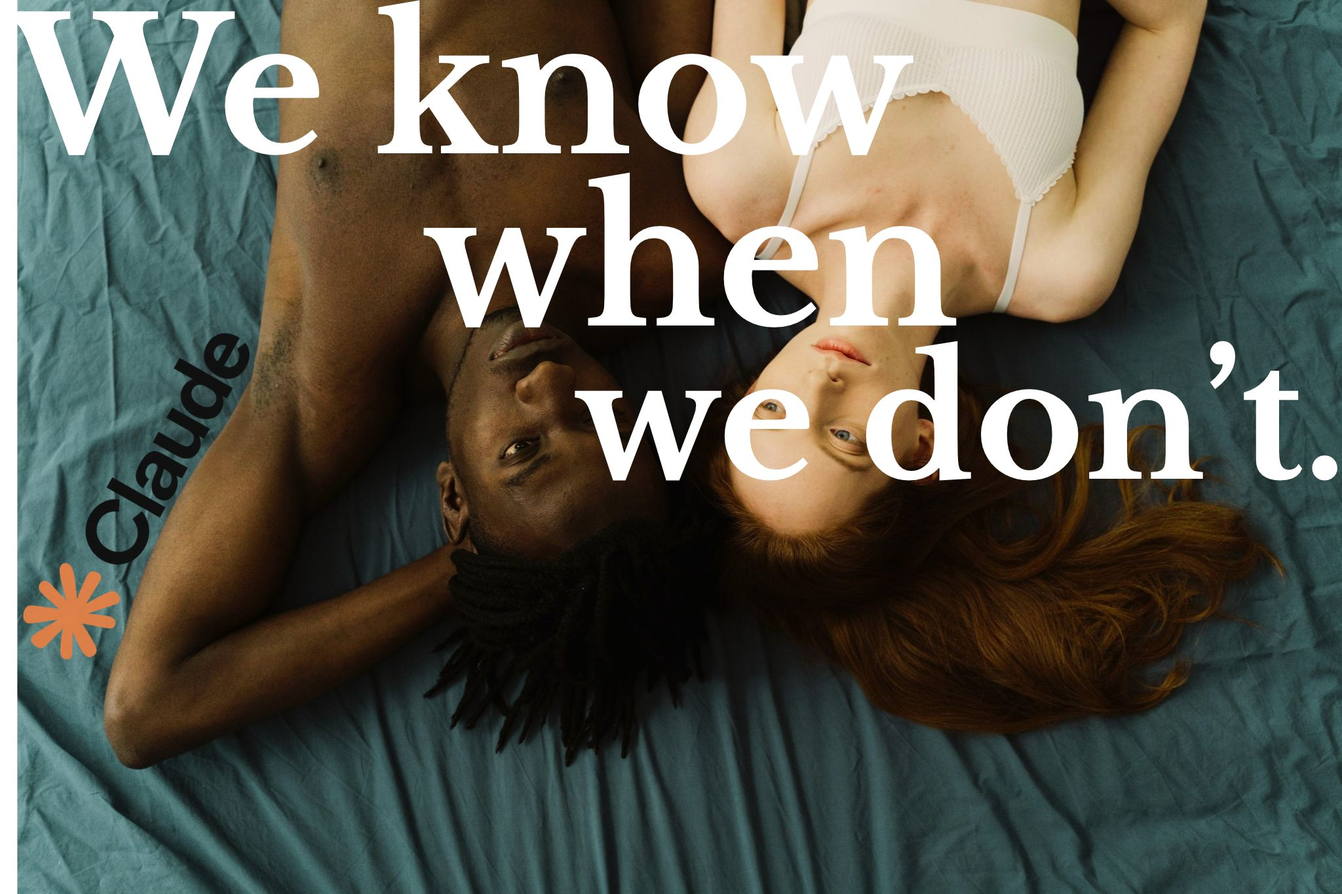
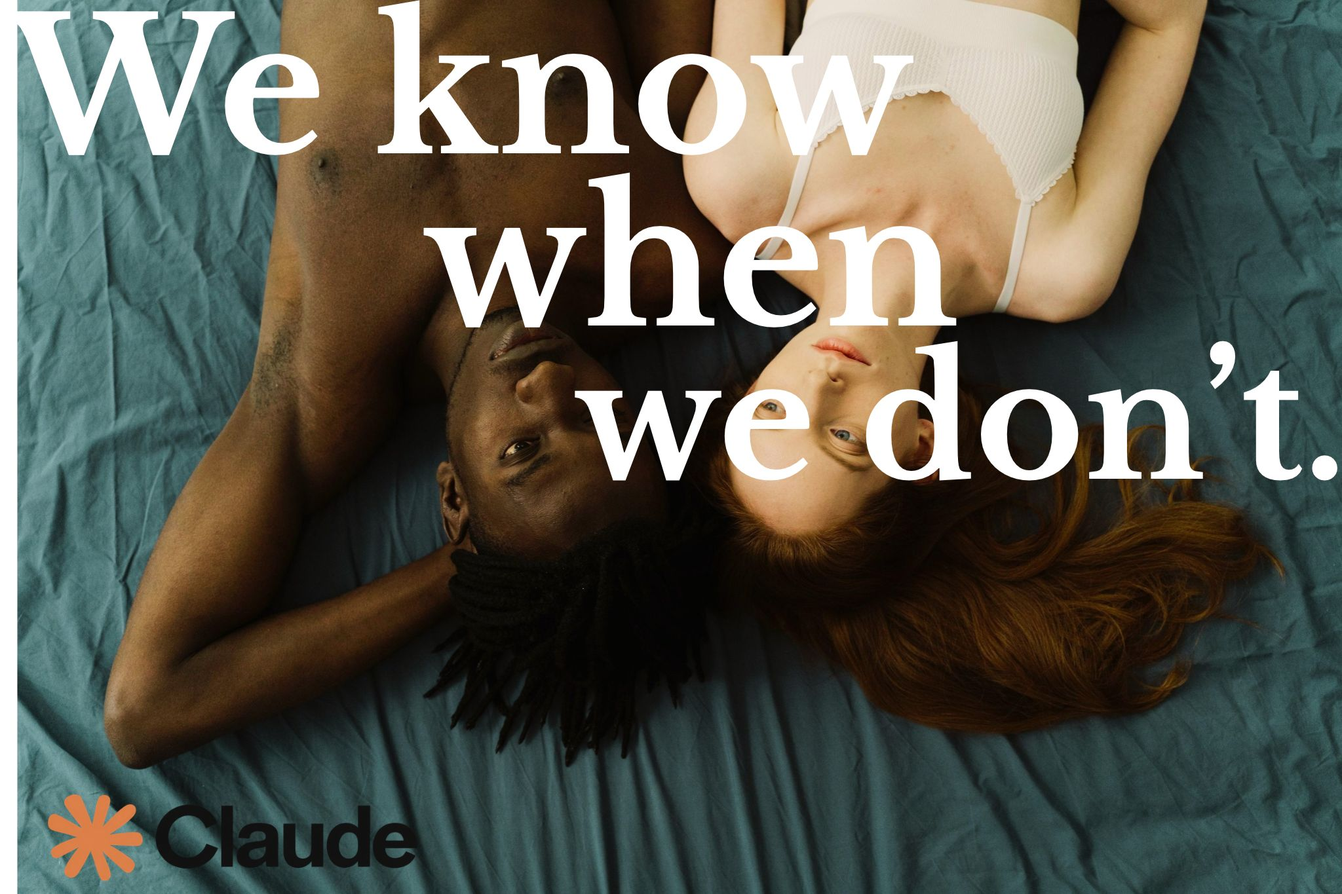
Add files via upload

Changed region(s): [[0.0, 0.3692, 0.1875, 0.7385], [0.0312, 0.8923, 0.3125, 0.9846]]

diff --git a/index.html b/index.html
@@ -12,10 +12,7 @@
 <link rel="prefetch" href="mozart-40-excerpt.mp3">
 <link rel="prefetch" href="ring-of-fire-excerpt.mp3">
 <title>Aditya Verma</title>
-<script>
-(function(){var s=null;try{s=localStorage.getItem("theme")}catch(e){}
-document.documentElement.setAttribute("data-theme",s||(window.matchMedia&&matchMedia("(prefers-color-scheme: dark)").matches?"dark":"light"))})();
-</script>
+
 <style>
 :root{--bg:#fff;--fg:#000;--mute:rgba(0,0,0,.58);--line:rgba(0,0,0,.14);color-scheme:light;box-sizing:border-box;padding-top:env(safe-area-inset-top,0px);padding-bottom:env(safe-area-inset-bottom,0px)}
 :root[data-theme=dark]{--bg:#000;--fg:#fff;--mute:rgba(255,255,255,.62);--line:rgba(255,255,255,.2);color-scheme:dark}
@@ -154,14 +151,65 @@ p.nt{margin:32px 0 10px;font-weight:600}
 @media(max-width:1000px){#top a{padding:11px 12px}}
 @media(max-width:860px){.oc{grid-template-columns:minmax(0,1fr);row-gap:26px;margin-bottom:84px}.oc .of,.oc:nth-child(even) .of{order:-1;position:static}}
 @media(max-width:560px){#top a{padding:8px 4px;font-size:14px}}
+
+html,body{background:#fff;color:#000}
+:root{--cr:#b0102f;--pu:#4c1d95;--nb:#0b1f4d;--mono:ui-monospace,"SF Mono",Menlo,Consolas,monospace;--serif:Georgia,"Times New Roman",serif}
+body{font-family:-apple-system,"SF Pro Display","Helvetica Neue",Helvetica,Arial,sans-serif}
+#app{display:grid;grid-template-columns:300px minmax(0,1fr);grid-template-rows:auto 1fr;min-height:100vh}
+#app.ns{grid-template-columns:minmax(0,1fr)}#app.ns #sb{display:none}
+#hd{grid-column:1/-1;display:flex;justify-content:space-between;align-items:flex-end;padding:22px 28px 14px;border-bottom:2px solid #000;margin-bottom:28px}
+#brand{text-decoration:none;font:700 clamp(26px,3.4vw,38px)/1 var(--serif);letter-spacing:-.03em}#brand span{color:var(--cr)}
+.hr{display:flex;align-items:baseline;gap:20px;font:12px/1 var(--mono);text-transform:uppercase;letter-spacing:.08em}.hr i{font-style:normal;color:var(--mute)}.hr a{text-underline-offset:4px;text-decoration-color:var(--cr);text-decoration-thickness:2px}
+#sb{position:sticky;top:0;align-self:start;max-height:100vh;overflow:auto;padding:0 24px 40px 28px}
+#sb .lk a{display:block;padding:7px 0 7px 10px;border-left:3px solid transparent;color:#555;text-decoration:none;font-weight:500;line-height:1.35}
+#sb .lk a:hover{color:#000}#sb .lk a.on{color:#000;font-weight:700;border-left-color:var(--cr)}
+.gp h4{margin:22px 0 4px;font:700 11px/1 var(--mono);text-transform:uppercase;letter-spacing:.14em;color:var(--mute)}
+.fb{display:flex;align-items:center;gap:11px;width:100%;padding:9px 0;border:0;border-bottom:1px solid var(--line);background:none;font:inherit;font-size:15px;color:#000;text-align:left;cursor:pointer}
+.fb i{flex:none;width:12px;height:12px;border:2px solid var(--c)}.fb[aria-pressed=true]{font-weight:700}.fb[aria-pressed=true] i{background:var(--c)}
+.ab{margin-top:30px;padding:22px 10px;background:var(--nb);color:#fff;text-align:center}
+.av{width:84px;height:84px;margin:0 auto 14px;border-radius:50%;border:3px solid var(--cr);overflow:hidden;background:#222}.av img{display:block;width:100%;height:100%;object-fit:cover}
+.pt{margin:0 0 16px;font-size:12.5px;line-height:1.7}.pt p{margin:0;white-space:nowrap}
+.tm2{border:0;background:var(--cr);color:#fff;padding:10px 16px;font:700 12px/1 var(--mono);text-transform:uppercase;letter-spacing:.08em;cursor:pointer}
+.tm2:hover{background:#fff;color:var(--cr)}
+.main.hm{max-width:none;padding:0 28px 80px 8px}
+#cards{display:grid;grid-template-columns:repeat(auto-fill,minmax(290px,1fr));gap:34px 26px}
+.cd{display:block;color:#000;text-decoration:none;cursor:pointer;border:2px solid #000;background:#fff;transition:transform .15s,box-shadow .15s}
+.cd:hover,.cd:focus-visible{transform:translate(-4px,-4px);box-shadow:6px 6px 0 var(--c)}
+.cd figure{position:relative;margin:0;aspect-ratio:4/3;overflow:hidden;border-bottom:2px solid #000;background:#111}
+.cd img{position:absolute;inset:0;width:100%;height:100%;object-fit:cover}.cd img.l{object-position:left}
+.cd video{position:absolute;inset:0;width:100%;height:100%;background:#000}
+.cd .tm{position:absolute;left:0;bottom:0;background:#000;color:#fff;padding:6px 10px;font:12px/1 var(--mono)}
+.cd .pp{position:absolute;left:50%;top:50%;width:56px;height:56px;margin:-28px 0 0 -28px;border-radius:50%;background:var(--c)}
+.cd .pp:after{content:"";position:absolute;left:23px;top:18px;border:10px solid transparent;border-left:17px solid #fff;border-right:0}
+.cb{padding:14px 16px 16px}
+.sk{display:flex;align-items:center;gap:8px;font:700 11px/1 var(--mono);text-transform:uppercase;letter-spacing:.12em;color:var(--c)}.sk i{width:9px;height:9px;background:var(--c)}
+.cd h3{margin:10px 0 0;font:700 21px/1.2 var(--serif);letter-spacing:-.015em}
+.cd .by{margin:6px 0 0;font-size:13.5px;line-height:1.4;color:var(--mute)}
+.cd .mt{margin:12px 0 0;font:11px/1 var(--mono);text-transform:uppercase;letter-spacing:.1em;color:var(--mute)}
+.pfm{display:none}
+h1{font-family:var(--serif)}.cp{border-left-color:var(--cr)}.lab{color:var(--pu)}h2.hd{border-top:2px solid #000}.sp{border-left-color:var(--pu)}
+.main a{text-decoration-color:var(--cr);text-underline-offset:3px}
+#md{position:fixed;inset:0;z-index:50;background:rgba(11,31,77,.72);display:flex;align-items:center;justify-content:center;padding:16px;overflow:auto}#md[hidden]{display:none}
+.mc{position:relative;background:#fff;width:min(460px,100%);border:2px solid #000;box-shadow:10px 10px 0 var(--cr);margin:auto}
+.mh{background:var(--pu);color:#fff;height:76px;display:flex;align-items:center;justify-content:center;font:700 22px var(--serif);letter-spacing:.02em}
+.mav{position:relative;width:88px;height:88px;margin:-42px auto 0;border-radius:50%;border:4px solid var(--cr);overflow:hidden;background:#222}.mav img{width:100%;height:100%;object-fit:cover;display:block}
+.mx{position:absolute;top:8px;right:14px;border:0;background:none;color:#fff;font-size:30px;line-height:1;cursor:pointer}
+.mb{padding:20px 28px 26px;line-height:1.4}.m1{margin:0 0 16px;font:700 25px/1.25 var(--serif);letter-spacing:-.01em}
+.m2{margin:0 0 20px;font-size:16.5px}.bk{display:block;background:var(--cr);color:#fff;padding:14px;text-align:center;text-decoration:none;font:700 13px var(--mono);text-transform:uppercase;letter-spacing:.1em}.bk:hover{background:#000}
+.bn{padding:20px 28px;font-size:18px;line-height:1.3;color:#fff;border-top:2px solid #000}
+
+.cd{position:relative;aspect-ratio:4/3;overflow:hidden;background:#111}
+.cd .ty{position:absolute;left:0;top:0;z-index:1;background:var(--c);color:#fff;padding:6px 10px;font:700 11px/1 var(--mono);text-transform:uppercase;letter-spacing:.1em}
+.cd .tm{z-index:1}.cd .pp{z-index:3}
+.ov{position:absolute;inset:0;padding:46px 18px 44px;background:linear-gradient(rgba(11,31,77,.9),rgba(11,31,77,.82));color:#fff;opacity:0;transition:opacity .18s}
+.cd:hover .ov,.cd:focus-visible .ov{opacity:1}
+.ov h3{margin:0;font:700 22px/1.2 var(--serif);letter-spacing:-.015em;color:#fff}
+.ov .by{margin:8px 0 0;font-size:13.5px;line-height:1.4;color:rgba(255,255,255,.85)}
+.ov .mt{margin:14px 0 0;font:11px/1.5 var(--mono);text-transform:uppercase;letter-spacing:.1em;color:rgba(255,255,255,.75)}
+@media(hover:none){.ov{opacity:1;display:flex;flex-direction:column;justify-content:flex-end;padding:18px 18px 42px;background:linear-gradient(transparent 35%,rgba(11,31,77,.94))}.ov .mt{display:none}}
+@media(max-width:860px){#app{grid-template-columns:minmax(0,1fr)}#hd{padding:16px;margin-bottom:16px}.hr i{display:none}#sb{position:static;max-height:none;padding:0 16px 16px}.pfd{display:none}.pfm{display:block;margin-top:30px}.main.hm{padding:0 16px 60px}#sb .lk{display:flex;overflow-x:auto;gap:14px}#sb .lk a{white-space:nowrap}}
 </style></head><body>
-<div id="grid" class="home">
-<a id="corner" class="on" href="#" aria-current="page"><span class="brand">Aditya Verma</span></a>
-<nav id="top" class="home" aria-label="Sections"><div class="tc"><a href="#cp-0" data-s="cp">Spec Creative Portfolio</a></div><div class="tc"><a href="#films" data-s="films">Short films</a></div><div class="tc"><a href="#out" data-s="out">Outreach</a></div><div class="tc"><a href="#o-0" data-s="o">Others</a></div></nav>
-<nav id="side" class="e" aria-label="Projects"><div class="in"></div></nav>
-<main id="main" class="main"></main>
-<button id="th" type="button"></button>
-</div>
+<div id="app"><header id="hd"><a id="brand" href="#">Aditya Verma<span>.</span></a><div class="hr"><i>Creative portfolio</i><a href="mailto:adityavermaworkid@gmail.com">Email</a><a href="https://www.linkedin.com/in/adityanverma" target="_blank" rel="noopener">LinkedIn</a></div></header><aside id="sb"></aside><main id="main" class="main"></main></div><div id="md" hidden></div>
 <script>
 var PER=6,LN=['while I am still hirable!','before my next mood swing.','before I realise my rates are not marginally, but exceptionally higher.'];
 function hero(){
@@ -615,42 +663,98 @@ function startPen(w,build,scrl){
  else addEventListener("resize",draw);
  PEN={off:function(){removeEventListener("scroll",onS);removeEventListener("resize",draw);if(ro)ro.disconnect()}}}
 
-var grid=$("#grid"),side=$("#side"),sin=$("#side .in"),main=$("#main"),top_=$("#top"),corner=$("#corner"),cur=null;
-function setTheme(t){document.documentElement.setAttribute("data-theme",t);try{localStorage.setItem("theme",t)}catch(e){}
- $("#th").textContent=t=="dark"?"Light":"Dark";$("#th").setAttribute("aria-label","Switch to "+(t=="dark"?"light":"dark")+" mode")}
-$("#th").addEventListener("click",function(){setTheme(document.documentElement.getAttribute("data-theme")=="dark"?"light":"dark")});
-setTheme(document.documentElement.getAttribute("data-theme"));
+var ML={g:'Global',i:'India',u:'US'};
+function S(l,h){return [l,h]}
+var SP={
+claude:{t:'An AI that says “I don’t know” wins trust',key:'cp',sk:['Strategy','Copywriting'],m:'g',mf:'real',full:'#cp-0',spec:1,img:'spec-claude.jpg',alt:'Poster for Claude: a couple lying head to head, with the line We know when we don’t.',s:[
+S('Problem','In October 2026, ChatGPT drew 55.7% of worldwide generative-AI website traffic and Claude 11.5%, according to Similarweb. Claude needs an edge over ChatGPT without giving away its technical identity.'),
+S('Insight','AI confidently hallucinates. Claude is visibly better at saying it doesn’t know. Admitting faults builds trust, whereas constant agreement erodes it.'),
+S('Line','“We know when we don’t.” It echoes Socrates’s “I know that I know nothing.”'),
+S('Scene','A couple lie in bed after a tense moment.<br><br><b>Girlfriend:</b> “Do you think you get defensive, when we talk…talk about things.”<br><br><b>Boyfriend:</b> “I don’t know…yes I do… I always do… I see myself doing it, too.” Then: “I want to change…learn how to change. And I don’t know how to. Do you?”<br><br><b>Girlfriend:</b> “No.. But let’s try.”<br><br>Out of focus, a laptop glows on a desk. Neither of them looks at it. Sign-off: “Keep thinking.” followed by “Trying.”')]},
+chatgpt:{t:'Winners don’t name second winners',key:'cp',sk:['Strategy','Copywriting'],m:'g',mf:'real',full:'#cp-1',spec:1,img:'spec-chatgpt.jpg',alt:'Poster for ChatGPT: a lone photographer on a hill, with the line Your time. Your time isn’t yours.',s:[
+S('Problem','As competition and negative narratives around AI intensify, ChatGPT must strengthen its market leadership while protecting the brand’s public perception.'),
+S('Insight','Don’t fight the “bad cop” image; build on the company’s mission, “AGI for all people’s benefit.” A leader’s real stance is not addressing competitors at all. Aim at power users: hyper-ambitious people, motivated by mission, who pay and promote organically.'),
+S('Line','“Your time isn’t yours.” At first it sounds like a ruler giving orders. It means not slavery to AI, but duty to one’s mission and to society.'),
+S('Scene','A black-and-white montage of people working hard, with rock music under it. Narrator: “Your time isn’t yours. It’s for your mission. Mission is time. Your time isn’t yours. It’s for your society.” ChatGPT logo.<br><br>The repeated phrase is a deliberate echo of the “Problem, problem” repetition in Claude’s Keep Thinking film.')]},
+hindu:{t:'No uncool that cannot be cooled.',key:'cp',sk:['Strategy','Copywriting'],m:'i',mf:'real',full:'#cp-2',spec:1,pt:1,img:'spec-the-hindu.jpg',alt:'Poster for The Hindu: a man reading a newspaper in a dim hall, with the line Newspapers aren’t cool anymore. Their readers always were.',s:[
+S('Problem','Newspapers are seen as an old technology. They take more effort than a phone and are culturally seen as outdated.'),
+S('Insight','People like to associate with cool, aesthetic things. We associate newspapers with uncles, so if the uncle becomes cool, that transfers to The Hindu. Most newspaper brands compete on reliability and trust. The Hindu already owns quality, so it can take the aesthetic of reading a newspaper too.'),
+S('Line','“Newspapers aren’t cool anymore. Their readers always were.”'),
+S('Scene (Film 1, Hindi)','Kids tell an uncle hiding behind a newspaper to check the news on his phone instead. The paper moves aside: lungi, shirt, sunglasses, tea. Uncle: “Beta… when has depth not been cool?” An Instagram-style fan edit of him plays. A kid asks, “Uncle, aap theek toh ho na?”<br><br>Film 2 (newspaper-cutting art) and Film 3 (the uncle on a date) continue the story.')]},
+hinge:{t:'Long form storytelling for a dating app.',key:'cp',sk:['Strategy','Copywriting'],m:'u',mf:'real',full:'#cp-3',spec:1,img:'spec-hinge.jpg',alt:'Poster for Hinge: a smiling woman in a black-and-white double exposure of a street festival.',s:[
+S('Problem','According to SSRS (2026), the share of US adults currently using dating apps fell from 7% in 2025 to 6% in January 2026.'),
+S('Insight','I have no numbers for this, only observation: many people on dating apps have already had a breakup or an infatuation. Apps point only to the future, though the past stays heavy. A mild melancholy can show love as a continuous chain rather than cuts, and speak to what neither person on a date says aloud.'),
+S('Line','“See me in everyone and know that I am happy for you.” The first half is love continuing. The second half is an assurance of well-being, as if to an ex.'),
+S('Scene','Chloe, back from a trip with friends, reads a letter in voice-over over photos of the trip. It opens: “Did we die? We didn’t. We both know it.” It closes: “Know that I see you in everyone and I know that you are happy for me.” Her friends start reading it too. Hinge logo.')]},
+airbnb:{t:'Why photos beat 5-star reviews on Airbnb Experiences',key:'o',sk:['Business analysis'],m:'i',mf:'real',full:'#o-0',fit:1,img:'airbnb-cooking-photos.jpg',alt:'Foreign guests cooking and eating with a Delhi host. Courtesy @explorerealindia.',s:[
+S('What I did','A product teardown of Airbnb Experiences, a vertical inside the lodging business that gives existing guests more to book. The core user is a foreign tourist staying in Delhi or Gurugram. I looked at friends travelling together and split them by how they book: the deliberate planner, the intuitive selector and the impulse adventurer.'),
+S('What I found','I walked through choosing a home-cooking host near Delhi, as a foreigner would. Clear, high-quality photos of earlier foreign guests win the first impression. They suggest no language barrier, safety and cultural understanding. Written reviews only confirm that trust, and almost every host has 5 stars, often given out of courtesy.'),
+S('What I’d do next','<ul><li>Offer stay and experience as one discounted package.</li><li>Train good hosts, and give them exclusive deals in return.</li><li>Let guests rate language and cultural knowledge separately.</li><li>Add video reviews, so safety is easier to verify.</li></ul>The main metric would be total Experience bookings, with user ratings as the quality check.')]},
+zomato:{t:'Five interviews, one problem: life after you hit order',key:'o',sk:['Research'],m:'i',mf:'real',full:'#o-1',fit:1,img:'zomato-empathy-map.jpg',alt:'Empathy map from one Zomato interview: says, thinks, does, feels.',s:[
+S('What I did','Five one-hour, one-on-one interviews with students and early-career professionals. For the first 80% of each, I let the person lead and tell their own stories. Only at the end did I show the idea I was testing: a faster Zomato checkout that skips the home page, with an opt-out.'),
+S('What I found','All four active users raised delivery problems without being asked: the app not showing where the order is, drivers and restaurants not doing what they promised, and poor coordination between all three. Chatbots gave false reassurance. One person said: “8 out of every 15–16 orders I place are frustrating.” The fifth person doesn’t order online at all, because of price, family habit and never having started.<br><br>The quick-checkout idea got a hesitant yes from almost everyone.'),
+S('What I’d do next','Test it with real users in a narrower group first. Zomato can’t fix drivers directly, but clearer updates after the order can still ease the worry people feel.')]},
+dont:{t:'A makeup brand that wins by selling less',key:'o',sk:['Brand'],m:'i',mf:'own',full:'#o-2',img:'dont-billboard.jpg',alt:'DON’T jar billboard at Pennsylvania Station.',s:[
+S('Problem','The makeup industry doesn’t address the western overconsumption framing of beauty. Women end up with more insecurity, even while using the product meant to fix it.'),
+S('Insight','A brand that takes the loss by not selling heavy makeup doesn’t preach its values, it shows them. That position can’t be faked. Clean brands like Minimalist differentiate on ingredients. DON’T differentiates on the psychology of using makeup and on its philosophy.'),
+S('Idea','“Negation before addition,” close to Advaita Vedanta’s “neti-neti” and Taleb’s “via negativa”: remove the wrong before adding what we think is good. Makeup becomes a “touchup” on what is already beautiful in you, not a transformation. The name makes people take a side, which is the point, since it asks them to look at their own choices.'),
+S('Lines','<ul><li>“DON’T buy our makeup if it makes you feel you are nothing without it.”</li><li>“Unfortunately for DON’T customers: exercise, diet and sleep before makeup.”</li></ul>')]}
+};
+var SPK=['claude','chatgpt','hindu','hinge','airbnb','zomato','dont'];
+function spHTML(k){var p=SP[k];
+ return '<h1>'+p.t+'</h1><span class="tag">'+(p.m=='i'?CHAKRA:GLOBE)+ML[p.m]+' market · '+p.sk.join(', ')+' · 1 min read'+(p.spec?' · Spec':'')+'</span>'+
+ p.s.map(function(x){return '<div class="lb"><span class="lab">'+x[0]+'.</span>'+x[1]+'</div>'}).join('')+
+ '<p><a href="'+p.full+'">Read the full version →</a></p>'+
+ '<figure class="fg'+(p.pt?' pt':'')+'"><img src="'+p.img+'" alt="'+p.alt+'" onerror="this.parentNode.hidden=true"></figure>'}
+function spSide(k){return '<a href="#">← All work</a>'+SPK.map(function(j){return '<a href="#s-'+j+'"'+(j==k?' class="on" aria-current="page"':'')+'>'+SP[j].t.slice(0,44)+(SP[j].t.length>44?'…':'')+'</a>'}).join('')}
+var CMP=[['Kathmandu','Home is Outside.','motion-kathmandu.jpg'],['Karangahape Road','Smell, bite, chew and swallow.','motion-karangahape.jpg'],['Griffin’s','Kiwis need a biscuit.','motion-griffins.jpg'],['Heart of the City','JOJI. $127-$208 per person. 7PM','motion-heart-of-the-city.jpg'],['Les Mills','Only the first step, unlocks the second.','motion-les-mills.jpg']];
+var FIL=[],CLR={'Case studies':'#b0102f',Ideas:'#4c1d95'};
+var GRP=[['Work',['Case studies','Ideas']]];
+var BULB='<svg viewBox="0 0 24 24" width="18" height="18" fill="none" stroke="currentColor" stroke-width="1.6" stroke-linecap="round"><path d="M9 18h6M10 21h4M12 3a6 6 0 00-3.5 10.9c.6.5 1 1.2 1 2.1h5c0-.9.4-1.6 1-2.1A6 6 0 0012 3z"/></svg>';
+function card(c){var cs=c.ty=='Case studies',col=cs?'#b0102f':'#4c1d95',
+ inner='<img'+(c.l?' class="l"':'')+' src="'+c.img+'" alt="" loading="lazy" onerror="this.remove()"><span class="ty">'+(cs?'Case study':'Idea')+'</span><span class="tm">'+c.tm+'</span>'+(c.f?'<span class="pp"></span>':'')+'<div class="ov"><h3>'+c.t+'</h3>'+(c.by?'<p class="by">'+c.by+'</p>':'')+'<p class="mt">'+c.sk.join(', ')+' · '+c.m+' · '+c.w+'</p></div>';
+ return c.f?'<div class="cd fc" style="--c:'+col+'" role="button" tabindex="0" aria-label="Play Silence Can Speak">'+inner+'</div>':'<a class="cd" style="--c:'+col+'" href="'+c.href+'">'+inner+'</a>'}
+function allCards(){var c=SPK.map(function(k){var p=SP[k];return {href:'#s-'+k,img:p.img,t:p.t,sk:p.sk,tm:'1 min',m:ML[p.m],w:p.mf=='own'?'Own':'Spec',l:p.fit,ty:['claude','chatgpt','hindu','hinge'].indexOf(k)>=0?'Case studies':'Ideas'}});
+ c.push({f:1,img:'silence-can-speak-poster.jpg',t:'Silence Can Speak',sk:['Film'],tm:'4:47',m:'Global',w:'Own',ty:'Ideas'});
+ CMP.forEach(function(m,i){c.push({href:'#out-motion-'+i,img:m[2],t:'“'+m[1]+'”',by:m[0]+' campaign by Motion Sickness',sk:['Copywriting'],tm:'10 secs',m:'Global',w:'Spec',ty:'Ideas'})});
+ return c}
+function cardsHTML(){var o=allCards().filter(function(c){return !FIL.length||FIL.indexOf(c.ty)>=0});
+ return o.length?o.map(card).join(''):'<p>Nothing matches this filter.</p>'}
+function chipsHTML(){return GRP.map(function(g){return '<div class="gp"><h4>'+g[0]+'</h4>'+g[1].map(function(v){return '<button type="button" class="fb" data-v="'+v+'" aria-pressed="'+(FIL.indexOf(v)>=0)+'" style="--c:'+CLR[v]+'"><i></i>'+v+'</button>'}).join('')+'</div>'}).join('')}
+function profHTML(c){return '<div class="ab '+c+'"><div class="av"><img src="me.jpg" alt="Aditya Verma"></div><div class="pt"><p>99%ile CUET, Delhi University</p><p>Product intern at a VC-backed startup</p><p>1st inter college film</p></div><button type="button" class="tm2" data-open="1">Tell me more →</button></div>'}
+function homeHTML(){return '<div id="cards">'+cardsHTML()+'</div>'+profHTML('pfm')}
+function openMd(){var b=['#0b1f4d','#4c1d95','#b0102f','#000'],t=['<b>Creative Direction, copy and strategy</b>'];
+ var m=$('#md');m.innerHTML='<div class="mc" role="dialog" aria-modal="true" aria-label="About Aditya"><div class="mh">Aditya Verma</div><div class="mav"><img src="me.jpg" alt="Aditya Verma"></div><button class="mx" type="button" aria-label="Close">×</button><div class="mb"><p class="m1">Netting ideas teams can’t find. Denetting what they can. could.</p><p class="m2">Book for a free gig and ghost this guy (me!), if it ain’t it. lol</p><a class="bk" href="mailto:adityavermaworkid@gmail.com?subject=Free%20gig">Book a free gig</a></div>'+t.map(function(x,i){return '<div class="bn" style="background:'+b[i]+'">'+x+'</div>'}).join('')+'</div>';m.hidden=false;m.querySelector('.mx').focus()}
+function closeMd(){$('#md').hidden=true}
+var main=$('#main'),sb=$('#sb'),app=$('#app'),cur=null;
+function lk(x){return '<div class="lk">'+x+'</div>'}
 function route(h){
  if(typeof h!="string")h=(location.hash||"").slice(1);
  if(h===cur)return;cur=h;
- var m=/^(cp|o)-(\d+)$/.exec(h),sec=m&&m[1],i=m?+m[2]:-1,it=sec&&D[sec][i],films=h=="films";
- if(!it)sec=null;
- var out=h=="out"||h=="out-motion",key=sec||(films?"films":(out?"out":"")),wide=false,html,title="Aditya Verma";
+ var m=/^(cp|o)-(\d+)$/.exec(h),sec=m&&m[1],i=m?+m[2]:-1,it=sec&&D[sec][i],sm=/^s-([a-z]+)$/.exec(h),sp=sm&&SP[sm[1]],mo=/^out-motion(?:-(\d))?$/.exec(h),films=h=="films",html,title="Aditya Verma",cls="",ns=false;
  if(it){
   html="<h1>"+esc(it.n)+"</h1>"+(it.sub?'<p class="sub">'+esc(it.sub)+"</p>":"")+(it.m?'<span class="tag">'+(it.m=="i"?CHAKRA+"Indian market":it.m=="u"?GLOBE+"US market":GLOBE+"Global market")+"</span>":'<div style="height:24px"></div>')+lines(it.L);
-  wide=/g\|/.test(it.L);title=it.n+" — Aditya Verma";
-  sin.innerHTML=D[sec].map(function(p,j){return '<a href="#'+sec+"-"+j+'"'+(j==i?' class="on" aria-current="page"':"")+">"+esc(p.n)+"</a>"}).join("");
-  side.className=""
- }else{
-  sin.innerHTML="";side.className="e";
-  if(films){html=FILM;wide=true;title="Short films — Aditya Verma";
-   sin.innerHTML='<a href="#films" class="on" aria-current="page">Silence Can Speak</a>';side.className=""}
-  else if(h=="out"){html=OUT;title="Outreach — Aditya Verma"}
-  else if(out){html=MOTION;wide=true;title="Motion Sickness — Aditya Verma"}
-  else html=HOME
- }
- main.className="main"+(wide?" wide":"")+((it||films)?" doc":"")+((it&&/(^|\n)f\|/.test(it.L))?" pz":"");main.innerHTML=html;document.title=title;
- grid.className=key?"":"home";top_.className=key?"":"home";
- corner.classList.toggle("on",!key);if(key)corner.removeAttribute("aria-current");else corner.setAttribute("aria-current","page");
- top_.querySelectorAll("a").forEach(function(a){a.classList.toggle("on",a.dataset.s==key)});
+  title=it.n+" — Aditya Verma";cls=" doc"+(/(^|\n)f\|/.test(it.L)?" pz":"")+(/g\|/.test(it.L)?" wide":"");
+  sb.innerHTML=lk('<a href="#">← All work</a>'+D[sec].map(function(p,j){return '<a href="#'+sec+"-"+j+'"'+(j==i?' class="on" aria-current="page"':"")+">"+esc(p.n)+"</a>"}).join(""))
+ }else if(sp){html=spHTML(sm[1]);title=sp.t+" — Aditya Verma";cls=" doc pz";sb.innerHTML=lk(spSide(sm[1]))}
+ else if(films){html=FILM;title="Short films — Aditya Verma";cls=" doc wide";sb.innerHTML=lk('<a href="#">← All work</a><a href="#films" class="on">Silence Can Speak</a>')}
+ else if(mo){html='<p><a href="#">← All work</a></p>'+MOTION;title="Motion Sickness — Aditya Verma";cls=" wide";ns=true}
+ else{html=homeHTML();cls=" hm";sb.innerHTML=chipsHTML()+profHTML('pfd')}
+ app.className=ns?"ns":"";main.className="main"+cls;main.innerHTML=html;document.title=title;
  window.scrollTo(0,0);
- stopPen();var pw=main.querySelector(".ow");if(pw)startPen(pw,h=="out"?outPts:motionPts,h!="out");
- var bk=h=="out-motion";corner.setAttribute("href",bk?"#out":"#");corner.querySelector(".brand").textContent=bk?"← Back":"Aditya Verma";if(bk)corner.setAttribute("aria-label","Back to Outreach");else corner.removeAttribute("aria-label");
+ stopPen();var pw=main.querySelector(".ow");if(pw)startPen(pw,motionPts,true);
+ if(mo&&mo[1]!=null){var el=main.querySelectorAll(".oc")[+mo[1]];if(el)setTimeout(function(){window.scrollTo(0,el.getBoundingClientRect().top+window.scrollY-24)},60)}
  initDecks()}
 function go(h){try{location.hash=h}catch(e){}route(h)}
-document.addEventListener("click",function(e){
- var a=e.target.closest&&e.target.closest('a[href^="#"]');
- if(!a)return;e.preventDefault();go(a.getAttribute("href").slice(1))});
+function refresh(){sb.innerHTML=chipsHTML()+profHTML('pfd');$('#cards').innerHTML=cardsHTML()}
+function playFilm(f){if(f.querySelector('video'))return;f.removeAttribute('role');f.innerHTML='<video src="silence-can-speak.mp4" poster="silence-can-speak-poster.jpg" controls autoplay playsinline title="Silence Can Speak"></video>'}
+document.addEventListener("click",function(e){var t=e.target,c=t.closest?t.closest.bind(t):function(){return null};
+ if(t.id=="md"||c('.mx')){closeMd();return}
+ var b=c('.fb');if(b){var v=b.dataset.v,i=FIL.indexOf(v);if(i<0)FIL.push(v);else FIL.splice(i,1);refresh();return}
+ if(c('[data-open]')){openMd();return}
+ var f=c('.fc');if(f){playFilm(f);return}
+ var a=c('a[href^="#"]');if(a){e.preventDefault();go(a.getAttribute("href").slice(1))}});
+document.addEventListener("keydown",function(e){if(e.key=="Escape")closeMd();var f=e.target.classList&&e.target.classList.contains('fc')&&e.target;if(f&&(e.key=="Enter"||e.key==" ")){e.preventDefault();playFilm(f)}});
 window.addEventListener("hashchange",function(){route()});
 route();
 </script></body></html>
